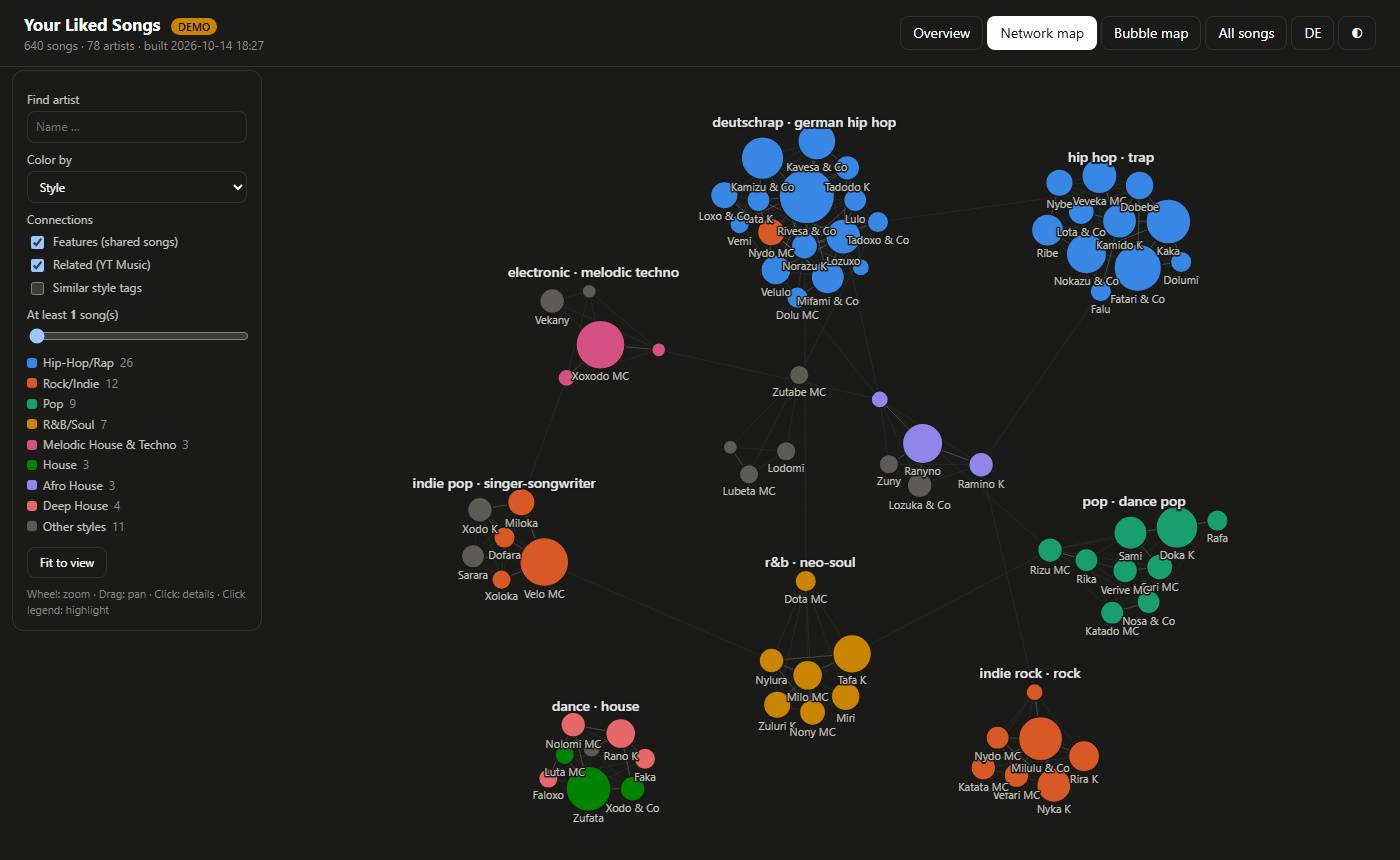
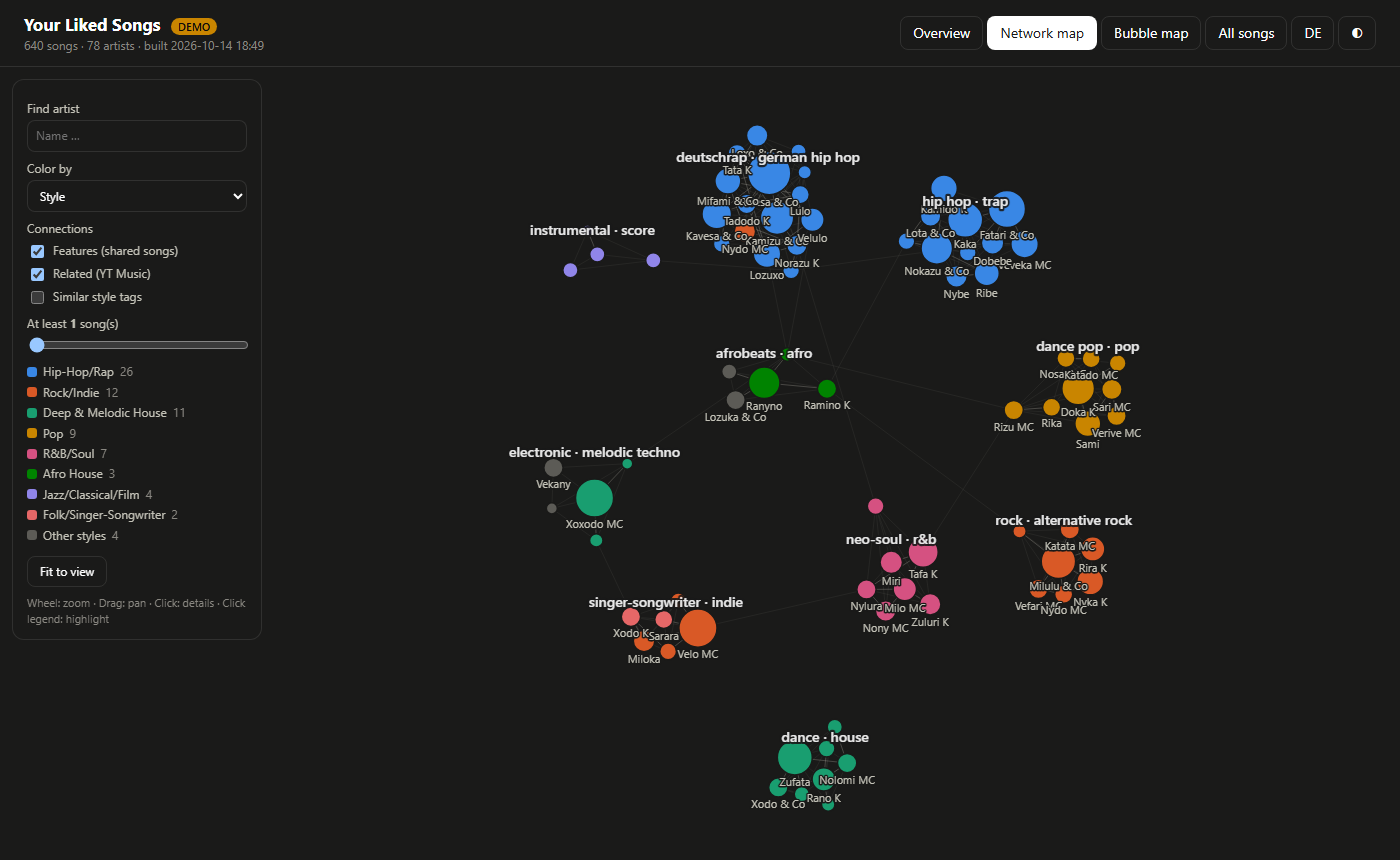
Netzwerk-Map: 12 Welten im Kreis, Namen am Median, automatisches Einpassen; Cluster nach typischen Tags benannt

diff --git a/web/app.js b/web/app.js
@@ -335,10 +335,13 @@
     const nodes = A.map((a, i) => ({ i, ...a, r: 3 + Math.sqrt(a.c) * 3.2 }));
     const allEdges = D.edges.map(([s, tt, f, r, tg]) => ({ s, t: tt, f, r, tg }));
     const R = 140 + Math.sqrt(nodes.length) * 12;
-    const anchors = COMMS.slice(0, 8).map((c, i) => {
-      const ang = (i / Math.min(8, COMMS.length)) * 2 * Math.PI - Math.PI / 2;
-      return { x: Math.cos(ang) * R * 0.75, y: Math.sin(ang) * R * 0.75 };
+    // Die 12 groessten Musik-Welten bekommen einen eigenen Platz im Kreis, der Rest sammelt sich in der Mitte
+    const NA = Math.min(12, COMMS.length);
+    const anchors = COMMS.slice(0, NA).map((c, i) => {
+      const ang = (i / NA) * 2 * Math.PI - Math.PI / 2;
+      return { x: Math.cos(ang) * R, y: Math.sin(ang) * R };
     });
+    const pull = nodes.length > 500 ? 0.07 : 0.035;
     const anchorOf = n => anchors[n.cm] || { x: 0, y: 0 };
     nodes.forEach(n => { const a = anchorOf(n); n.x = a.x + (Math.random() - 0.5) * 80; n.y = a.y + (Math.random() - 0.5) * 80; });
 
@@ -362,14 +365,17 @@
     const sim = d3.forceSimulation()
       .force('charge', d3.forceManyBody().strength(n => -24 - n.r * 4).distanceMax(450))
       .force('collide', d3.forceCollide(n => n.r + 4))
-      .force('x', d3.forceX(n => anchorOf(n).x).strength(0.035))
-      .force('y', d3.forceY(n => anchorOf(n).y).strength(0.035))
+      .force('x', d3.forceX(n => anchorOf(n).x).strength(pull))
+      .force('y', d3.forceY(n => anchorOf(n).y).strength(pull))
       .force('link', d3.forceLink().distance(l => (l.f ? 26 : l.r ? 46 : 64)).strength(l => (l.f ? 0.5 : l.r ? 0.22 : 0.08)))
       .alphaDecay(0.03)
       .on('tick', () => {
         if (!fitted && sim.alpha() < 0.2) { fitted = true; fit(); }
         draw();
-      });
+      })
+      // Am Ende nochmal einpassen, solange niemand selbst gezoomt oder verschoben hat
+      .on('end', () => { if (!userMoved) fit(500); });
+    let userMoved = false;
 
     function fit(duration = 750) {
       if (!vnodes.length) return;
@@ -453,10 +459,11 @@
       // Namen der Musik-Welten in der Übersicht
       if (!focus && k < 1.3) {
         ctx.font = `600 ${14 / k}px system-ui, -apple-system, "Segoe UI", sans-serif`;
-        COMMS.slice(0, 8).forEach((c, i) => {
+        COMMS.slice(0, NA).forEach((c, i) => {
           const mem = vnodes.filter(n => n.cm === i);
           if (mem.length < 3) return;
-          const cx = d3.mean(mem, n => n.x), cy = d3.min(mem, n => n.y) - 18 / k;
+          // Median statt Mittelwert/Minimum: einzelne Ausreisser ziehen den Namen nicht weg
+          const cx = d3.median(mem, n => n.x), cy = d3.quantile(mem.map(n => n.y).sort(d3.ascending), 0.2) - 14 / k;
           ctx.globalAlpha = 0.9;
           ctx.lineWidth = 4 / k; ctx.strokeStyle = pal.surface; ctx.strokeText(c.name, cx, cy);
           ctx.fillStyle = pal.text; ctx.fillText(c.name, cx, cy);
@@ -531,7 +538,7 @@
       draw();
     }
 
-    const zoom = d3.zoom().scaleExtent([0.08, 10]).on('zoom', e => { transform = e.transform; draw(); });
+    const zoom = d3.zoom().scaleExtent([0.08, 10]).on('zoom', e => { transform = e.transform; if (e.sourceEvent) userMoved = true; draw(); });
     const drag = d3.drag()
       .subject(ev => { const n = nodeAt(ev.x, ev.y); return n ? { n, x: transform.applyX(n.x), y: transform.applyY(n.y) } : null; })
       .on('start', ev => { if (!ev.active) sim.alphaTarget(0.25).restart(); ev.subject.n.fx = ev.subject.n.x; ev.subject.n.fy = ev.subject.n.y; })

diff --git a/ytmlib/build.py b/ytmlib/build.py
@@ -3,6 +3,7 @@ from __future__ import annotations
 
 import csv
 import json
+import math
 import os
 import re
 import shutil
@@ -14,7 +15,7 @@ from itertools import combinations, permutations
 from pathlib import Path
 
 from .common import DATA, LANG, OUT, WEB, artist_from_title, cache_dir, load_json, prepare_songs, tr
-from .genres import OTHER, UNKNOWN, clean_tags, macro_genre
+from .genres import GENERIC_TAGS, OTHER, UNKNOWN, clean_tags, macro_genre
 
 LIKED_PLAYLIST_NAME = re.compile(r"lik|mag|gef[aä]ll|favorit", re.I)
 WATCH_LATER = re.compile(r"watch later|sp[aä]ter ansehen", re.I)
@@ -419,19 +420,31 @@ def build(data_dir: Path = DATA, out_dir: Path = OUT, demo: bool = False) -> Pat
 
     communities = nx.community.louvain_communities(G, weight="weight", seed=42, resolution=1.0)
     communities = sorted(communities, key=lambda c: -sum(len(artists[k]["songs"]) for k in c))
+    # Cluster nach ihren TYPISCHEN Tags benennen: haeufig im Cluster und deutlich haeufiger als in der
+    # ganzen Sammlung (Lift). Allgemeine Tags wie "electronic" oder "house" taugen nicht zur Unterscheidung.
+    def tag_weights(keys) -> Counter:
+        c = Counter()
+        for k in keys:
+            for t in artists[k]["tags"][:5]:
+                if t not in GENERIC_TAGS:
+                    c[t] += len(artists[k]["songs"])
+        return c
+
+    global_tags = tag_weights(artists)
+    global_total = sum(global_tags.values()) or 1
     comm_info = []
     for ci, members in enumerate(communities):
         song_n = sum(len(artists[k]["songs"]) for k in members)
-        tc = Counter()
         gc = Counter()
         for k in members:
-            w = len(artists[k]["songs"])
-            for t in artists[k]["tags"][:3]:
-                tc[t] += w
-            gc[artists[k]["genre"]] += w
+            gc[artists[k]["genre"]] += len(artists[k]["songs"])
             artists[k]["community"] = ci
+        tc = tag_weights(members)
+        total = sum(tc.values()) or 1
+        scored = sorted(((v / total) * math.log1p((v / total) / (global_tags[t] / global_total)), t)
+                        for t, v in tc.items() if v / total >= 0.04)
         top_members = sorted(members, key=lambda k: -len(artists[k]["songs"]))
-        name = " · ".join(t for t, _ in tc.most_common(2)) or artists[top_members[0]]["name"]
+        name = " · ".join(t for _, t in scored[::-1][:2]) or artists[top_members[0]]["name"]
         comm_info.append({"id": ci, "name": name, "songs": song_n, "artists": len(members),
                           "genre": gc.most_common(1)[0][0],
                           "top": [artists[k]["name"] for k in top_members[:6]]})
